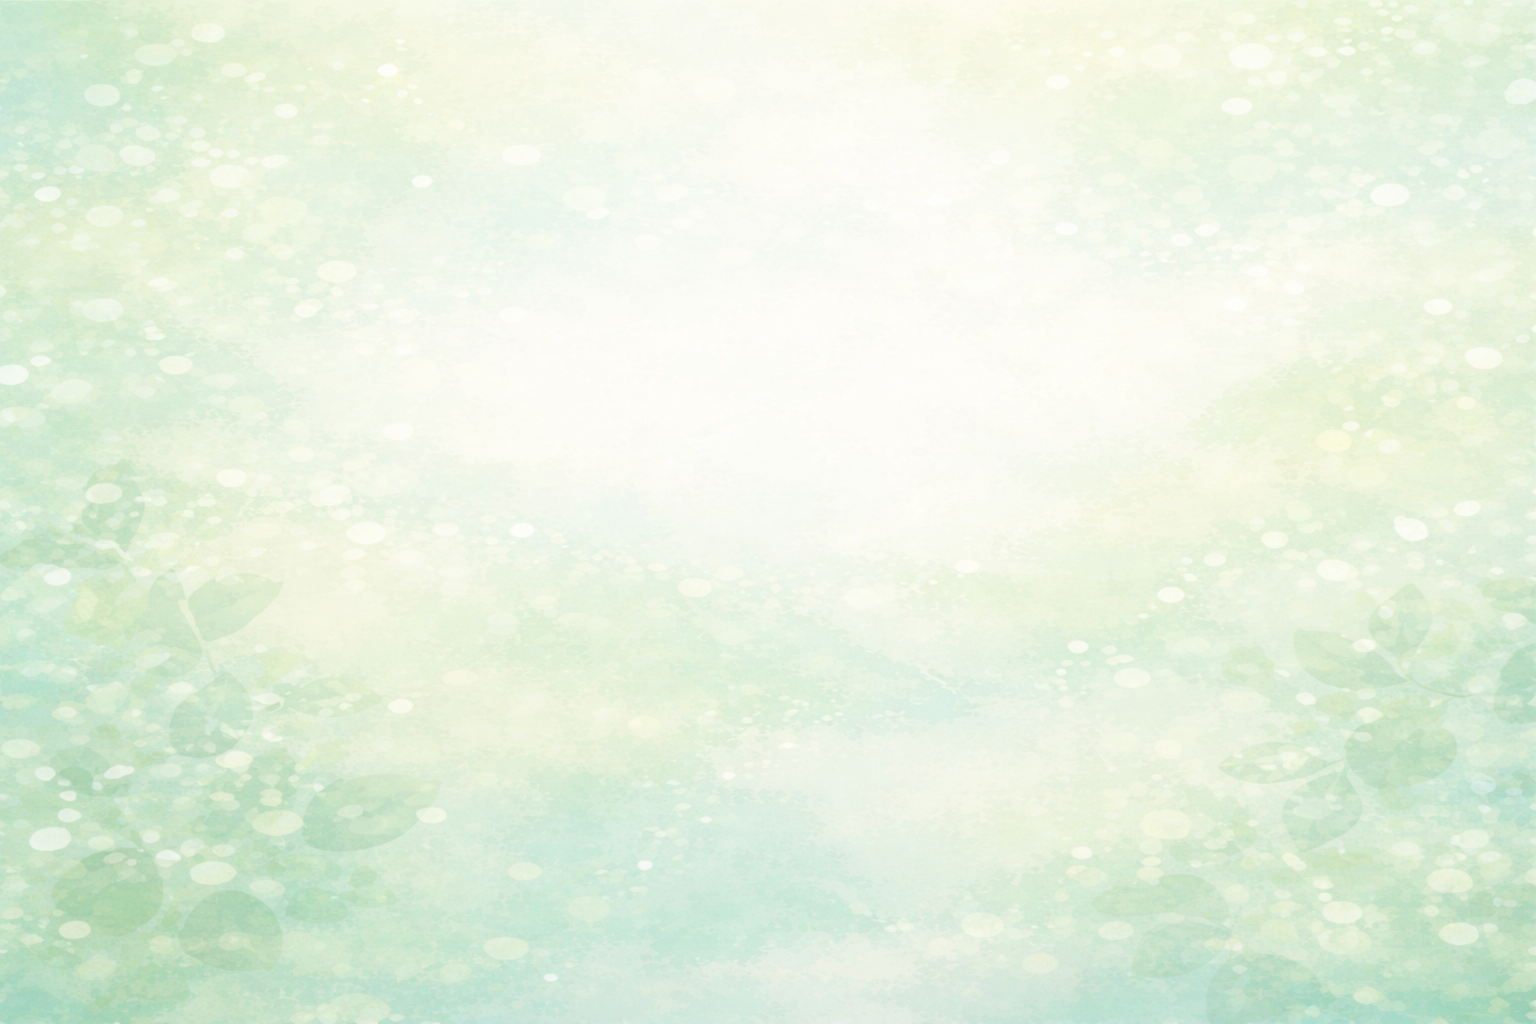
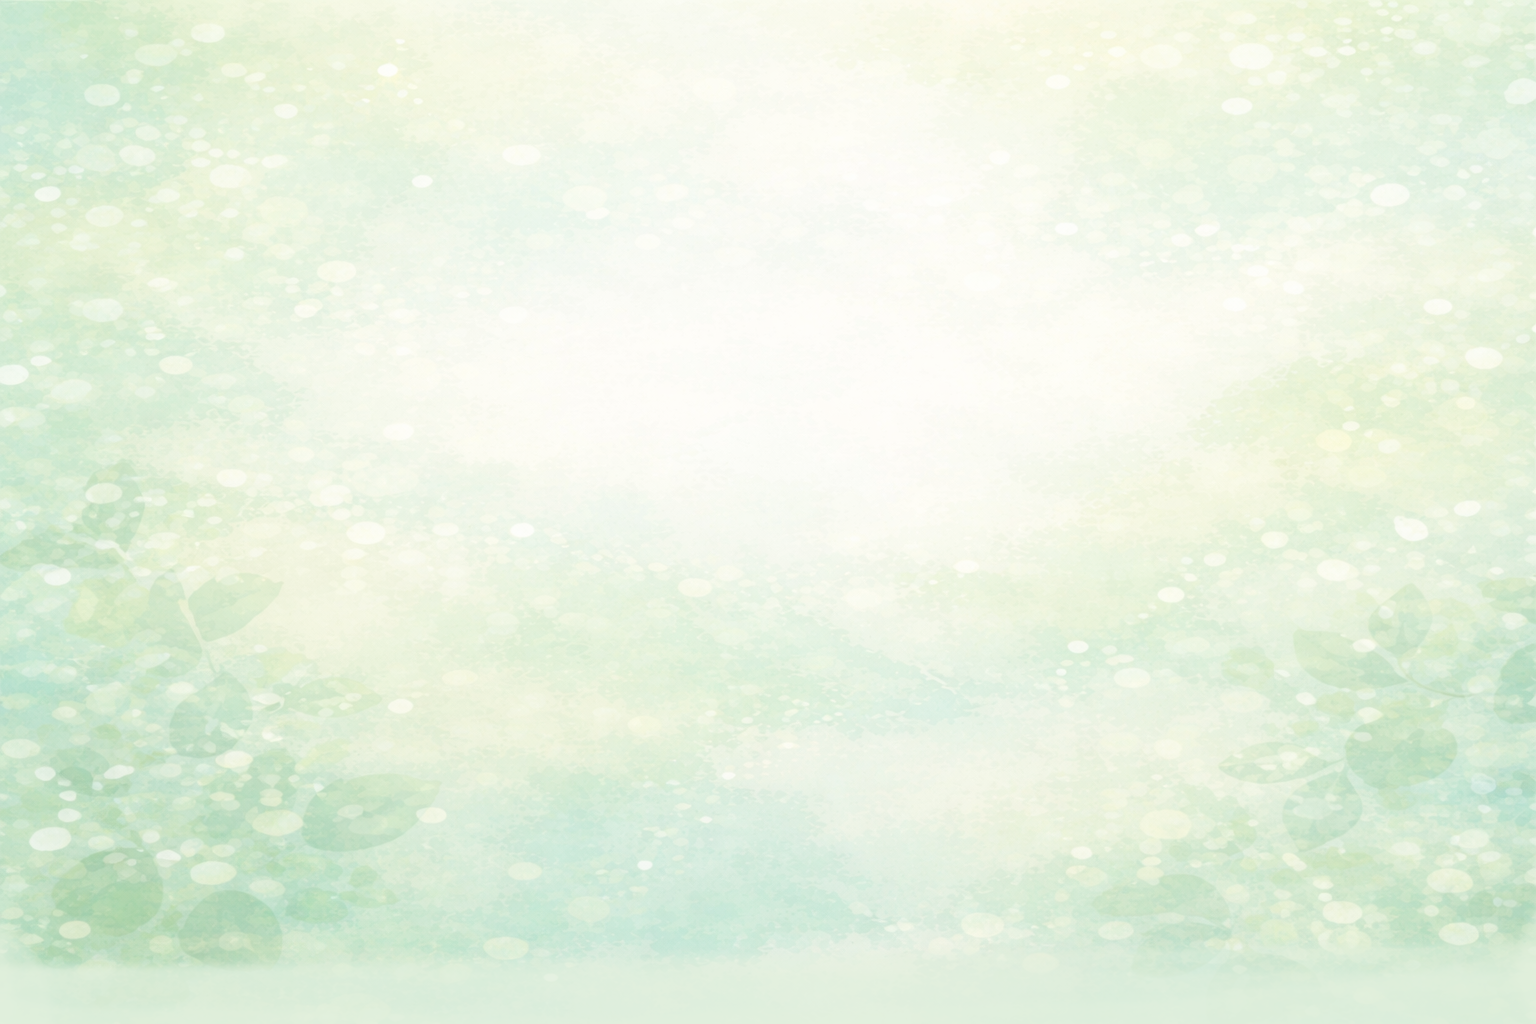
fix divers affichage

Changed region(s): [[0.0, 0.9062, 0.3438, 1.0], [0.6562, 0.9375, 1.0, 1.0]]

diff --git a/assets/styles/styles.css b/assets/styles/styles.css
@@ -153,7 +153,11 @@ body{
     0 3px 8px rgba(120,60,60,.25);
 }
 
-
+.card-header {
+  background: linear-gradient(180deg, #a6d27b, #8fbf61);
+  color: #ffffff;
+  text-shadow: 0 1px 0 rgba(0,0,0,.25);
+}
 .badge.bg-primary{
   border-radius: 999px;
   padding: .4em .75em;
@@ -400,8 +404,191 @@ h2{
   background: #fcfdf9;
 }
 
+/* =========================================================
+   MEALPLAN — Day visual (calendar chip) + past opacity
+   ========================================================= */
 
-/****** CHAT *******/
+.rp-card-body{
+  padding: 0 !important; /* ton list-group flush gère déjà */
+}
+
+/* jour (list-group-item) */
+.rp-day-past{
+  opacity: .55;
+}
+.rp-day-today{
+  opacity: 1;
+}
+
+/* Head row du jour */
+.rp-day-head{
+  display: flex;
+  align-items: center;
+  gap: 10px;
+  min-width: 0;
+}
+
+/* “mini calendrier” */
+.rp-day-chip{
+  width: 64px;
+  height: 44px;
+  flex: 0 0 64px;
+
+  border-radius: 14px;
+
+  display: grid;
+  align-content: center;
+  justify-items: center;
+  gap: 2px;
+
+  background: linear-gradient(180deg, rgba(231,243,219,.85), rgba(217,238,200,.75));
+  border: 1px solid rgba(120,150,120,.18);
+  box-shadow: inset 0 1px 0 rgba(255,255,255,.75);
+
+  color: rgba(47,58,47,.80);
+}
+
+.rp-day-chip i{
+  font-size: 12px;
+  opacity: .8;
+  line-height: 1;
+}
+
+.rp-day-num{
+  font-weight: 900;
+  font-size: 16px;
+  line-height: 1;
+}
+
+.rp-day-month{
+  font-weight: 800;
+  font-size: 11px;
+  letter-spacing: .02em;
+  text-transform: uppercase;
+  opacity: .75;
+  line-height: 1;
+}
+
+/* Meta (jour + date) */
+.rp-day-meta{
+  min-width: 0;
+  display: flex;
+  flex-direction: column;
+  line-height: 1.05;
+}
+
+.rp-day-name{
+  font-weight: 900;
+  color: rgba(47,58,47,.86);
+}
+
+.rp-day-date{
+  font-weight: 700;
+  font-size: 12px;
+  color: rgba(47,58,47,.60);
+}
+
+/* “Aujourd’hui” pill */
+.rp-today-pill{
+  margin-left: auto;
+  flex-shrink: 0;
+
+  padding: .25rem .6rem;
+  border-radius: 999px;
+
+  font-weight: 900;
+  font-size: .75rem;
+
+  color: var(--rp-green-text);
+  background: linear-gradient(180deg, var(--rp-green-start), var(--rp-green-end));
+
+  box-shadow:
+    inset 0 1px 0 rgba(255,255,255,.6),
+    0 6px 14px rgba(120,170,80,.35);
+
+  text-shadow: 0 1px 0 rgba(0,0,0,.18);
+}
+
+/* si le jour est passé, on garde le chip lisible mais plus “soft” */
+.rp-day-past .rp-day-chip{
+  filter: grayscale(.15);
+  opacity: .85;
+}
+
+/* Today: légère mise en avant du bloc jour */
+.rp-day-today{
+  background: rgba(255,255,255,.55);
+}
+.rp-day-today .rp-day-chip{
+  border-color: rgba(140,185,90,.35);
+  box-shadow:
+    inset 0 1px 0 rgba(255,255,255,.75),
+    0 10px 18px rgba(120,170,80,.15);
+}
+
+/* Mobile : chip un peu plus petit */
+@media (max-width: 576px){
+  .rp-day-chip{
+    width: 58px;
+    flex-basis: 58px;
+    height: 42px;
+    border-radius: 13px;
+  }
+  .rp-today-pill{
+    font-size: .72rem;
+  }
+}
+
+.zone_meal_wrap{
+  margin: 0 -15px;
+}
+
+/* =========================================================
+   CHAT — fit remaining viewport inside rp-page
+   ========================================================= */
+
+/* Ajuste si besoin, mais ces valeurs matchent ton base */
+:root{
+  --rp-header-h: 56px;          /* approximatif, OK en base */
+  --rp-main-gap-top: 15px;      /* rp-page margin-top */
+  --rp-page-pad: 2rem;          /* rp-page padding desktop */
+  --rp-page-pad-mobile: 1.1rem; /* rp-page padding mobile (ton media query) */
+  --rp-bottom-nav-h: 92px;      /* ton menu bas */
+}
+
+/* wrapper de page chat: on neutralise le “scroll page” */
+.rp-chat-page{
+  height: 100%;
+}
+
+/* IMPORTANT: le layout chat doit pouvoir shrink en flex */
+.rp-chat-layout{
+  /* hauteur restante dans la fenêtre */
+  height: calc(100dvh - var(--rp-header-h) - var(--rp-main-gap-top) - (var(--rp-page-pad) * 2));
+  min-height: 0;
+}
+
+/* messages : fix flex overflow */
+.rp-chat-messages{
+  min-height: 0;
+  overflow-y: auto;
+  -webkit-overflow-scrolling: touch;
+}
+
+/* Mobile : rp-page a moins de padding + on soustrait le menu bas */
+@media (max-width: 991.98px){
+  .rp-chat-layout{
+    height: calc(
+      100dvh
+      - var(--rp-header-h)
+      - var(--rp-main-gap-top)
+      - (var(--rp-page-pad-mobile) * 2)
+      - var(--rp-bottom-nav-h)
+      - env(safe-area-inset-bottom)
+    );
+  }
+}
+
 .rp-message{
   background: linear-gradient(180deg, #a6d27b, #8fbf61);
   color: #ffffff;
@@ -1025,7 +1212,7 @@ h2{
   position: fixed;
   left: 50%;
   transform: translateX(-50%);
-  bottom: calc(10px + env(safe-area-inset-bottom));
+  bottom: calc(0px + env(safe-area-inset-bottom));
   z-index: 1030;
 
   width: min(560px, calc(100% - 24px));
@@ -1156,6 +1343,10 @@ h2{
    ========================================================= */
 @media (max-width: 576px){
 
+  body{
+    background-image: url("/img/background_mobile.png");
+  }
+
   /* Container : un peu moins de padding latéral */
   .container{
     padding-left: 12px !important;
@@ -1275,7 +1466,7 @@ h2{
   }
 
   .swipe-content{
-    padding:0px;
+    padding:1px;
   }
   .rp-accordion{
     margin: 0 -1.1rem;
@@ -1286,4 +1477,22 @@ h2{
   .rp-recipe-main{
     padding:10px;
   }
+}
+
+/* =========================================================
+   Hide number input spinners (quantités)
+   ========================================================= */
+
+/* Chrome / Edge / Safari */
+input[type="number"]::-webkit-outer-spin-button,
+input[type="number"]::-webkit-inner-spin-button {
+  -webkit-appearance: none;
+  margin: 0;
+}
+
+/* Firefox */
+input[type="number"] {
+  -moz-appearance: textfield;
+   text-align: right;
+  font-weight: 700;
 }
